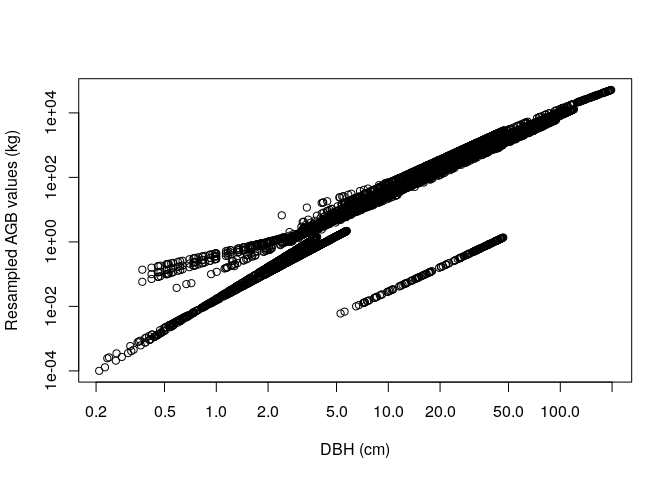
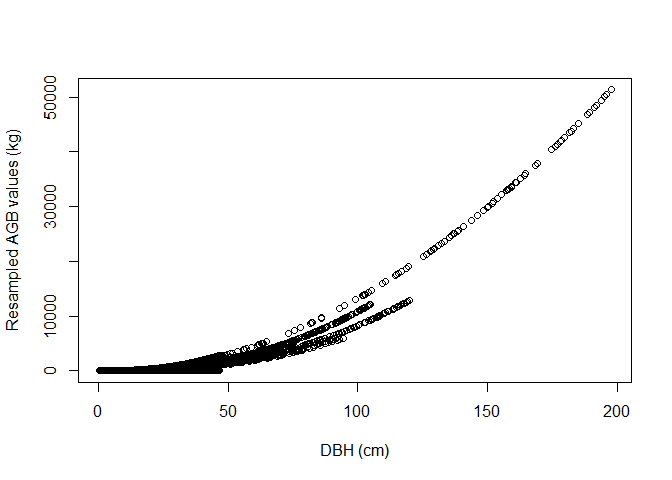
update readme and vignette

diff --git a/README.md b/README.md
@@ -51,24 +51,6 @@ larger sample size and/or higher taxonomic and climatic similarity with
 the species and location in question are given a higher weight in this
 process.
 
-The general workflow of the package is summarized in the following
-figure. (xx change this figure to match new *allodb* version)
-
-<br>
-<p align="center">
-<img width="100%" src="not-package-stuff/graphs/Fig1workflow.png">
-</p>
-<p align="center">
-<sub>Figure 1. Diagram of allo-db workflow, including user input data
-and an example of weighting of available equations across the DBH size
-spectrum to produce a single, continuous function of AGB in relation to
-DBH. The top ten allometries (indicating equation ID and taxa/taxonomic
-group), after applying the weighting process, can be seen as a side
-panel</sub>
-</p>
-
-<br>
-
 ## Installation
 
 Install the development version of *allo-db* from GitHub:
@@ -116,7 +98,7 @@ get_biomass(
   species="tulipifera", 
   coords=c(-78.2, 38.9)
 )
-#> [1] 2841.488
+#> [1] 1648.712
 ```
 
 Users can modify the set of equations that will be used to estimate the
@@ -192,7 +174,6 @@ df_resample <-
 plot(
   df_resample$dbh,
   df_resample$agb,
-  log = "xy",
   xlab = "DBH (cm)",
   ylab = "Resampled AGB values (kg)"
 )
@@ -214,12 +195,10 @@ pars_acer <- est_params(
 plot(
   df_resample$dbh,
   df_resample$agb,
-  log = "xy",
   xlab = "DBH (cm)",
   ylab = "Resampled AGB values (kg)"
 )
-curve(exp(pars_acer$a) * x ^ pars_acer$b * exp(0.5 * pars_acer$sigma^2),
-      add = TRUE, col = 2, lwd = 2)
+curve(pars_acer$a * x ^ pars_acer$b, add = TRUE, col = 2, lwd = 2)
 ```
 
 ![](README_files/figure-gfm/est-params-acer-1.png)<!-- -->
@@ -234,14 +213,14 @@ params <- est_params(
   coords = c(-78.2, 38.9)
 )
 head(params)
-#>          genus     species  long  lat         a        b     sigma
-#> 1:        Acer     negundo -78.2 38.9 -2.825065 2.614069 1.0087115
-#> 2:        Acer      rubrum -78.2 38.9 -2.906226 2.639375 0.9787364
-#> 3:   Ailanthus   altissima -78.2 38.9 -2.539061 2.499994 1.3038173
-#> 4: Amelanchier     arborea -78.2 38.9 -2.464260 2.470997 1.1751264
-#> 5:     Asimina     triloba -78.2 38.9 -2.539061 2.499994 1.3038173
-#> 6:    Carpinus caroliniana -78.2 38.9 -2.439023 2.487171 1.1029199
+#>          genus     species  long  lat          a        b    sigma
+#> 1:        Acer     negundo -78.2 38.9 0.09642540 2.507352 415.7038
+#> 2:        Acer      rubrum -78.2 38.9 0.09667325 2.506573 399.8393
+#> 3:   Ailanthus   altissima -78.2 38.9 0.15385947 2.389879 376.4935
+#> 4: Amelanchier     arborea -78.2 38.9 0.09643425 2.490833 374.4586
+#> 5:     Asimina     triloba -78.2 38.9 0.15385947 2.389879 376.4935
+#> 6:    Carpinus caroliniana -78.2 38.9 0.12670717 2.432006 324.7536
 ```
 
-AGB is then recalculated as `agb = exp(a) * dbh^b * exp(0.5 * sigma^2)`
-within the `get_biomass` function.
+AGB is then recalculated as `agb = a * dbh^b` within the `get_biomass`
+function.
